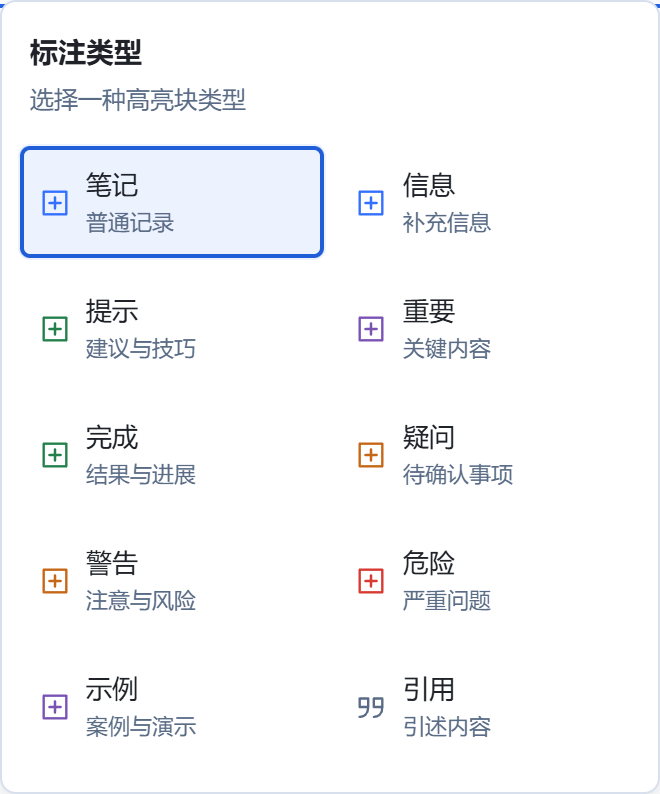
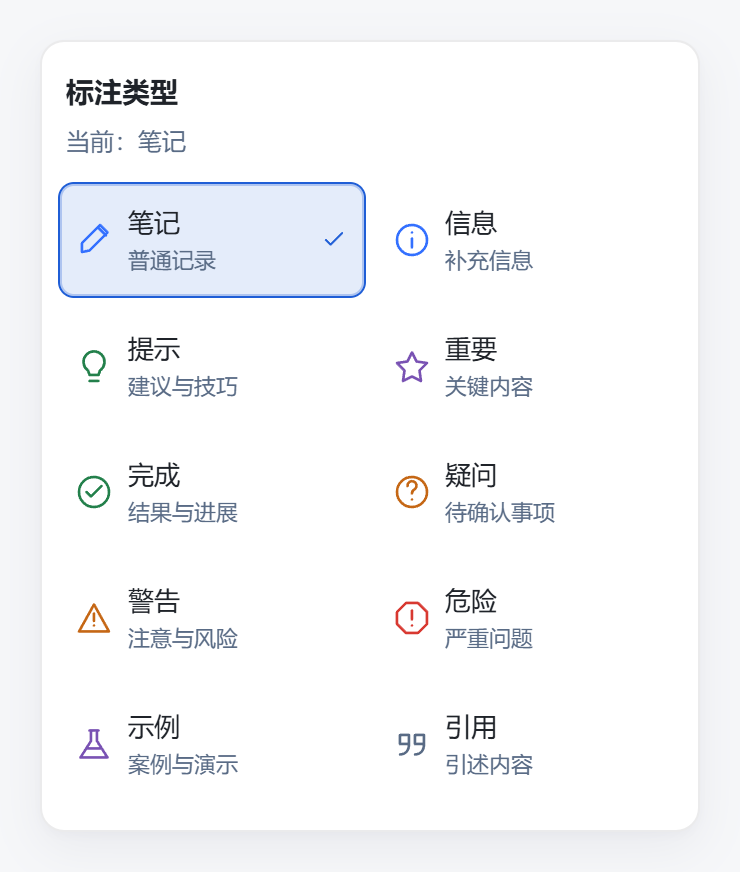
chore: release 0.0.4 with refreshed high-resolution screenshots

diff --git a/dev/preview-client.js b/dev/preview-client.js
@@ -32,6 +32,17 @@ const paths = {
   'align-center': 'M3 5h18M6 10h12M3 15h18M6 20h12',
   'align-right': 'M3 5h18M9 10h12M3 15h18M9 20h12',
   copy: 'M9 9h12v12H9V9M15 9V3H3v12h6',
+  'copy-plus': 'M9 9h12v12H9V9M15 9V3H3v12h6M12 15h6M15 12v6',
+  pencil: 'M15 4l5 5M4 20l5-1L21 7l-5-5L4 14v6',
+  info: 'M12 22a10 10 0 1 0 0-20 10 10 0 0 0 0 20M12 11v6M12 7h.01',
+  lightbulb: 'M9 18h6M9 22h6M8 15a7 7 0 1 1 8 0l-1 3H9l-1-3',
+  star: 'M12 3l3 6 7 1-5 5 1 7-6-3-6 3 1-7-5-5 7-1 3-6',
+  'circle-check': 'M12 22a10 10 0 1 0 0-20 10 10 0 0 0 0 20M7 12l3 3 7-7',
+  'circle-help':
+    'M12 22a10 10 0 1 0 0-20 10 10 0 0 0 0 20M9 8a3 3 0 1 1 5 2c-2 1-2 2-2 3M12 17h.01',
+  'triangle-alert': 'M12 3L2 21h20L12 3M12 9v5M12 17h.01',
+  'octagon-alert': 'M8 2h8l6 6v8l-6 6H8l-6-6V8l6-6M12 7v6M12 17h.01',
+  'flask-conical': 'M9 3h6M10 3v7L3 21h18l-7-11V3M7 15h10',
   scissors: 'M6 3l14 18M6 21L20 3M7 7a3 3 0 1 1-6 0 3 3 0 0 1 6 0M7 17a3 3 0 1 1-6 0 3 3 0 0 1 6 0',
   'trash-2': 'M3 6h18M9 6V3h6v3M5 6l1 15h12l1-15M10 10v7M14 10v7',
   'arrow-up': 'M12 20V4M5 11l7-7 7 7',

diff --git a/docs/releases/0.0.4.md b/docs/releases/0.0.4.md
@@ -1,0 +1,20 @@
+# Flow Edit 0.0.4
+
+## 更新
+
+- 选区工具栏改为纯图标，统一线宽、下拉箭头和悬停提示，保留当前块类型图标与无障碍名称。
+- 工具栏、块菜单与子菜单统一柔和圆角、轻阴影、浅灰悬停和淡蓝选中态。
+- 颜色与对齐面板共用布局和选项，统一内缩边距与选中勾，保留返回和缩进操作。
+- 优化深色模式、键盘焦点和触屏按钮尺寸；正文对齐保持不变。
+- README 更新 2 倍像素、无鼠标指针的截图，补充颜色与对齐展示。
+
+## 安装与升级
+
+下载本版本的 `main.js`、`manifest.json` 和 `styles.css`，放入 `<笔记库配置目录>/plugins/flow-edit/`。升级时先停用插件，覆盖三个文件并保留 `data.json`，再启用插件。
+
+## 验证与兼容性
+
+- 76 项自动测试通过，1 项可选主题检查跳过；严格类型、lint、格式和发布产物检查通过。
+- 已检查浏览器演示中的浅色、深色及 390px 窄窗格，并验证格式切换和菜单返回操作。
+- 最低声明版本仍为 Obsidian 1.5.0；最低版本设备及移动端原生界面尚未完成验收。
+- 三个安装文件由发布工作流生成并验证 GitHub 来源证明。

diff --git a/CHANGELOG.md b/CHANGELOG.md
@@ -1,10 +1,11 @@
 # 版本记录
 
-## 未发布
+## 0.0.4 · 2026-11-14
 
 - 统一块菜单与子菜单的图标、SVG 箭头、选中勾和内缩边距；颜色、对齐面板共用选项与布局，保留返回和缩进操作。
 - 选区工具栏改为纯图标，下拉入口使用小箭头，保留当前块类型图标、悬停提示和无障碍名称。
 - 工具栏与菜单采用柔和圆角、轻阴影、中性图标和留白分组，区分浅灰悬停与淡蓝选中态；优化深色模式、键盘焦点和触屏按钮尺寸。
+- README 更新无鼠标指针的高清功能截图，增加颜色与对齐面板展示。
 
 ## 0.0.3 · 2026-11-13
 

diff --git a/README.md b/README.md
@@ -13,7 +13,7 @@
 
 ### 功能截图
 
-基于当前源码的浏览器演示，截图以 2 倍像素导出。
+基于 0.0.4 源码的浏览器演示，截图以 2 倍像素导出，无鼠标指针。
 
 **内容插入**
 
@@ -25,7 +25,12 @@
 
 **文字格式**
 
-![选中文字后的格式工具栏](screenshots/flow-edit-hd-selection.png)
+![纯图标文字格式工具栏](screenshots/flow-edit-hd-selection.png)
+
+**颜色与对齐**
+
+<img src="screenshots/flow-edit-hd-color.png" alt="统一的块颜色面板" width="280">
+<img src="screenshots/flow-edit-hd-align.png" alt="带选中勾的块对齐面板" width="280">
 
 **高亮块类型**
 
